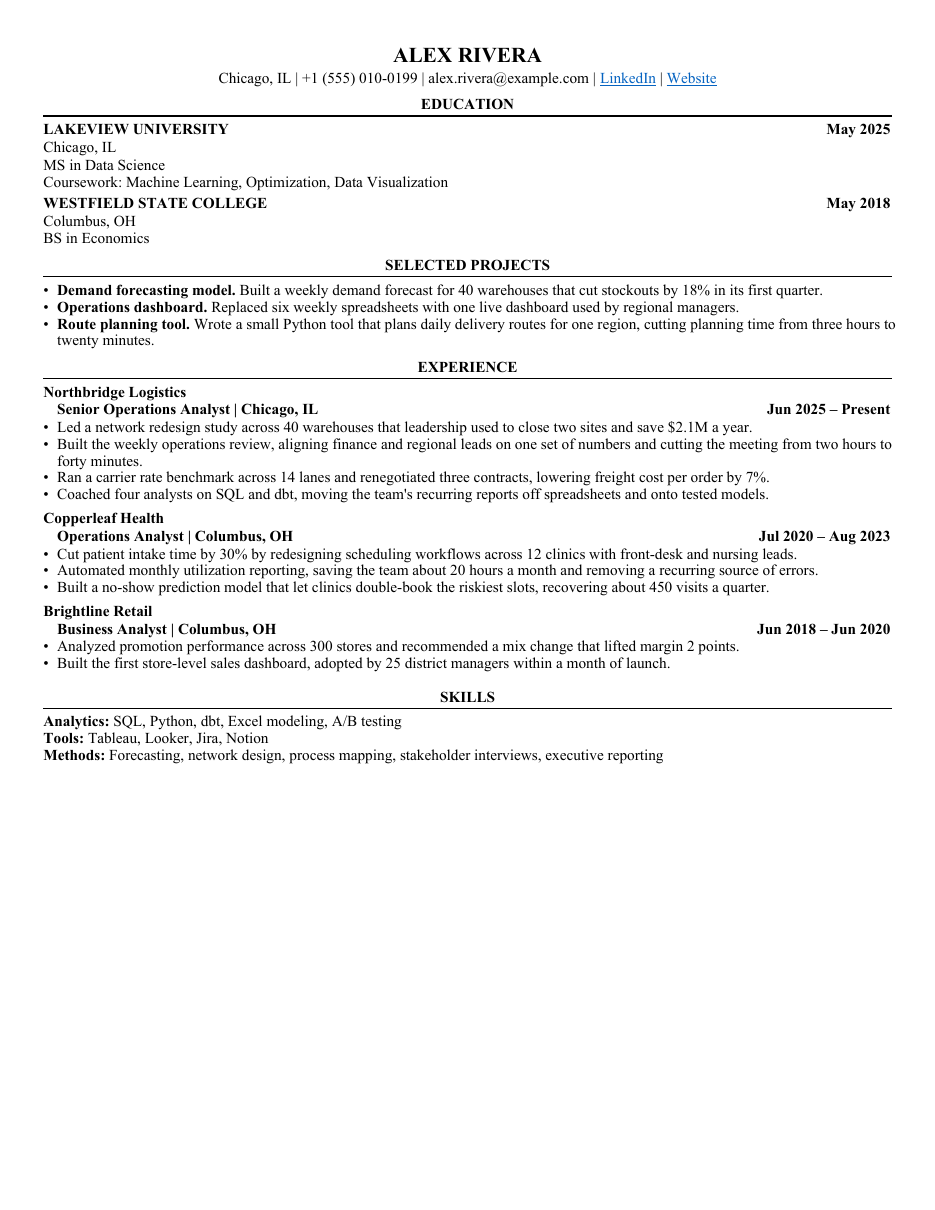
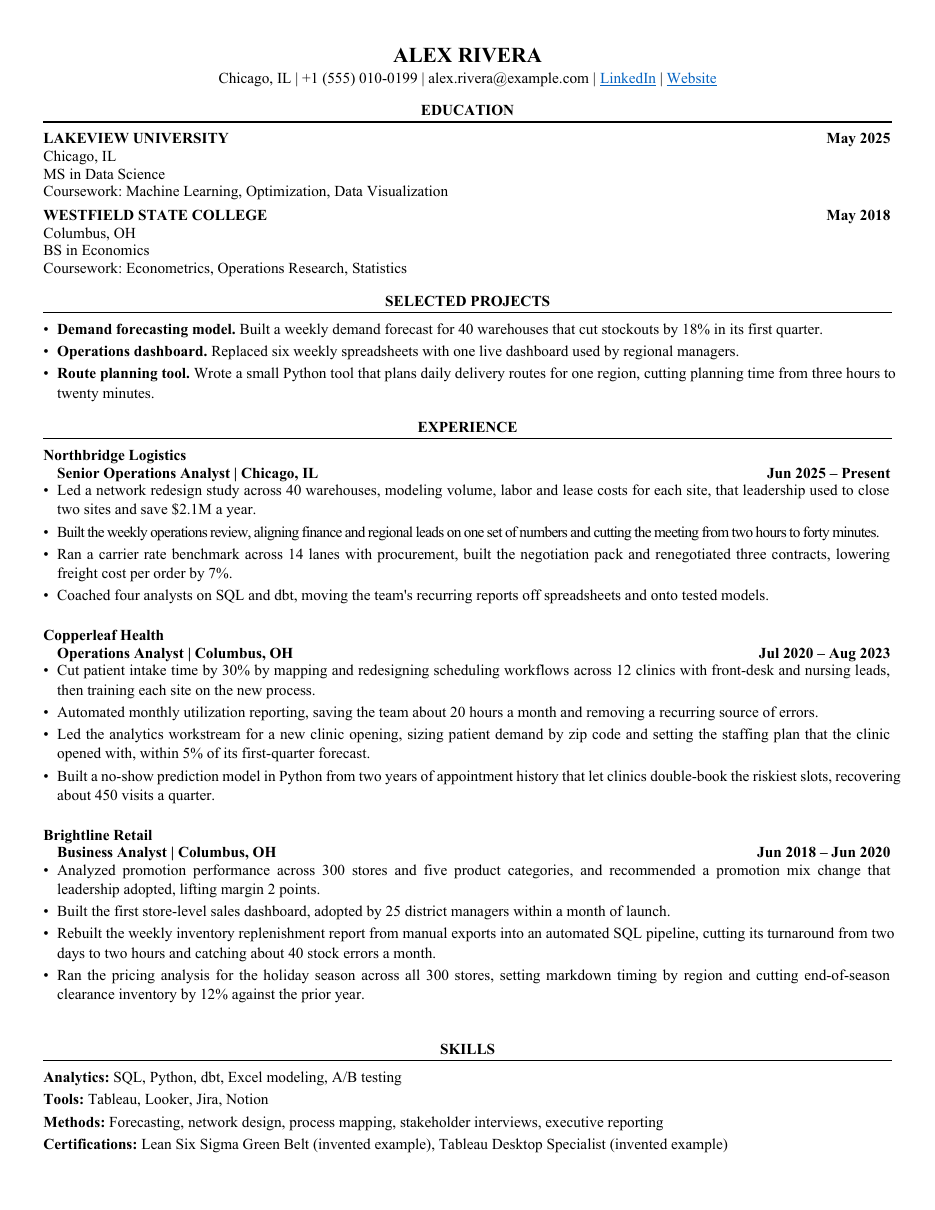
Fixes from a fresh-install test
- Quick start uses a venv (Homebrew and Linux Pythons refuse a system-wide pip install).
- Headless Claude calls load no user settings or CLAUDE.md (--setting-sources "").
- The demo never calls Claude; DEV_PORT documented; SIGTERM cleans up.
- Example base resumes fit the page (97%); the fill rule is documented as the engine applies it.
- Onboarding: guidance for filling a page with a short career; step references fixed.
- Two test races fixed (response built before the email worker starts; background work settled
  before the second draft). Manual capture refused while outreach is off. Privacy hook executable.

diff --git a/server/app.py b/server/app.py
@@ -675,7 +675,7 @@ def claude_status():
         return "missing"
     try:
         r = subprocess.run([b, "-p", "Reply with the single word OK.", "--output-format", "json",
-                            "--max-turns", "1", "--model", "haiku", "--tools", "",
+                            "--max-turns", "1", "--model", "haiku", "--tools", "", "--setting-sources", "",
                             "--strict-mcp-config", "--mcp-config", '{"mcpServers":{}}'],
                            capture_output=True, text=True, timeout=60, cwd=ROOT, stdin=subprocess.DEVNULL)
         if not r.stdout.strip():
@@ -849,8 +849,9 @@ def _run_claude_once(prompt, schema, resume, model, timeout, tools, permission_m
         cmd += ["--effort", effort]      # "low" for mechanical follow-ups: shorten these three items
     if system_prompt is not None:
         cmd += ["--system-prompt", system_prompt]      # replaces the CLI's default system prompt
-    if setting_sources is not None:
-        cmd += ["--setting-sources", setting_sources]  # "" loads no settings files at all
+    # "" loads no settings files and no CLAUDE.md: the prompts carry everything they need, and the user's own global
+    # instructions (written for their interactive sessions) must not leak into a resume or an email.
+    cmd += ["--setting-sources", "" if setting_sources is None else setting_sources]
     t0 = time.time()
     r = subprocess.run(cmd, capture_output=True, text=True, timeout=timeout, cwd=ROOT, input=prompt)
     if r.returncode != 0 and not r.stdout.strip():
@@ -4531,6 +4532,9 @@ def api_people_manual():
     tracked, where."""
     if not from_owner():
         return forbidden()
+    off = feature_off("outreach", "Outreach")
+    if off:
+        return off
     body = request.get_json(force=True) or {}
     name = outreach.clean_name((body.get("name") or "").strip())
     slug = profile_slug(body.get("linkedin_url"))
@@ -4779,9 +4783,10 @@ def api_person_find_email(pid):
         return jsonify({"error": NO_APIFY, "needs": "apify_token"}), 400
     _person_error.pop(pid, None)
     _person_busy[pid] = {"what": "email", "since": now()}
+    out = _person_out(pid)          # before the worker starts: a fast worker could clear the busy mark first
     threading.Thread(target=person_email_worker, args=(pid, p_["job_id"]), daemon=True).start()
     log_action(cur["job"] and load_job(cur["job"]["id"]), "person_find_email", detail={"person": pid})
-    return jsonify(_person_out(pid)), 202
+    return jsonify(out), 202
 
 
 REVISE_BELOW = 70              # a draft the audit scores under this gets one revision from the audit's notes

diff --git a/server/demo.py b/server/demo.py
@@ -6,6 +6,7 @@ stages, a rendered resume and sample outreach, then starts the dev server on it.
 Apify or a mail server, and nothing is written outside a temp folder.
 
 Run:   python3 server/demo.py           then open http://127.0.0.1:8791/  (side panel preview: /_panel)
+       DEV_PORT=8800 python3 server/demo.py   to use another port
 Stop:  Ctrl+C. The temp folder is deleted on exit.
 """
 import importlib.util
@@ -108,6 +109,8 @@ def main():
             con.execute("UPDATE jobs SET captured_at=? WHERE id=?", (fields["captured_at"], job["id"]))
     print(f"demo: {len(JOBS)} invented jobs for {app.userprofile.name()}")
     env = dict(os.environ, DEV_SRC_DB=app.DB, JDI_DEMO="1")
+    import signal
+    signal.signal(signal.SIGTERM, lambda *a: sys.exit(0))      # a plain kill still cleans up the temp folder
     try:
         subprocess.run([sys.executable, os.path.join(HERE, "devserver.py")], env=env, check=False)
     finally:

diff --git a/server/test_outreach_flow.py b/server/test_outreach_flow.py
@@ -973,6 +973,11 @@ post(f"/api/messages/{got['messages'][0]['id']}/skip", {"reason": "Too formal fo
 _rej = [json.loads(x) for x in open(app.LEARNING_INBOX) if '"draft_rejected"' in x]
 check("Skip writes a draft_rejected event with the reason given", any(
     x["context"].get("message") == got["messages"][0]["id"] and x["context"].get("reason") == "Too formal for a recruiter" for x in _rej), str(_rej)[-300:])
+# Let background work started by earlier steps (link backfills, earlier workers finishing up) settle first, so this
+# step sees the stored address and the job as they will be, not mid-write.
+for _t in __import__("threading").enumerate():
+    if _t is not __import__("threading").main_thread() and _t.daemon:
+        _t.join(timeout=15)
 st, r = post(f"/api/people/{pp['id']}/draft")
 check("Draft: again once the first was skipped", st == 202, str(r))
 wait_person(pp["id"])

diff --git a/server/devserver.py b/server/devserver.py
@@ -51,7 +51,10 @@ _real_claude = app.run_claude
 
 
 def _no_model_for_handoff(prompt, schema=None, **kw):
-    """The dev copy asks the model nothing for a handoff note: its summary falls back to the code-written one."""
+    """The dev copy asks the model nothing for a handoff note: its summary falls back to the code-written one. The demo
+    (JDI_DEMO, from demo.py) asks the model nothing at all, so clicking around it never spends Claude usage."""
+    if os.environ.get("JDI_DEMO"):
+        return {"error": "This is the demo: it never calls Claude. Run /onboard to set up your own profile."}
     if schema is app.hf.SUMMARY_SCHEMA or schema is app.PERSON_SCHEMA:     # a profile read falls back to the page's own reading here
         return {"error": "dev server: no model"}
     return _real_claude(prompt, schema=schema, **kw)

diff --git a/.claude/skills/onboard/SKILL.md b/.claude/skills/onboard/SKILL.md
@@ -17,7 +17,7 @@ and the skills need, at least one base resume renders to one full page, and the 
 to load the extension and start the server.
 
 Talk to the user as "you". Keep every message short. Ask in small batches (three to six
-questions), never a wall of questions. Say where you are in the process ("Step 3 of 8").
+questions), never a wall of questions. Say where you are in the process ("Step 3 of 9").
 
 ## Ground rules
 
@@ -25,7 +25,7 @@ questions), never a wall of questions. Say where you are in the process ("Step 3
   their answers in this conversation. A number, title, date, tool or achievement they have not
   confirmed stays off. When a document and an answer disagree, ask.
 - **Never ask for a secret in chat.** Passwords, API keys and tokens go into `.env` through the
-  hidden-input command in Step 7. If the user pastes one into chat anyway, do not repeat it, write
+  hidden-input command in Step 6. If the user pastes one into chat anyway, do not repeat it, write
   it to `.env` yourself only if they ask, and suggest they rotate it.
 - **Write in the exact format of `examples/profile/`.** Open the matching example file before
   writing each profile file, and keep every key, its nesting and its type. The loader is
@@ -51,7 +51,7 @@ Run these checks and report one line each, with the fix for anything missing:
 | Check | Command | Fix |
 |---|---|---|
 | Python 3.10 or newer | `python3 --version` | macOS: `brew install python`; Linux: the distribution's `python3` package |
-| Python packages | `python3 -c "import flask, yaml, docx, pypdf"` | `python3 -m pip install -r requirements.txt` |
+| Python packages | `python3 -c "import flask, yaml, docx, pypdf"` | `python3 -m venv .venv && source .venv/bin/activate && pip install -r requirements.txt` |
 | LibreOffice (renders resumes to PDF) | `soffice --version` | macOS: `brew install --cask libreoffice`; Debian or Ubuntu: `sudo apt install libreoffice-writer` |
 | Poppler (measures and rasterizes PDFs) | `pdfinfo -v` and `pdftoppm -v` | macOS: `brew install poppler`; Debian or Ubuntu: `sudo apt install poppler-utils` |
 | Google Chrome (for the extension) | ask the user | https://www.google.com/chrome/ |
@@ -176,9 +176,13 @@ python3 engine/engine.py fit data/onboard/<key>.json data/onboard/<file_stem>_<k
 pdftoppm -jpeg -r 100 data/onboard/<file_stem>_<key>.pdf data/onboard/<key>-page
 ```
 
-`fit` prints a JSON result. `verdict` must be `fit`: one page, 92 to 98 percent full, no orphan
-lines. If it is `over`, cut or shorten the weakest bullets; `under`, add a real bullet from
-`profile.md` to a role with fewer than three; `orphans`, lengthen or shorten the named bullets by
+`fit` prints a JSON result. `verdict` must be `fit`: one page with at most 0.4 inch left empty at the bottom (roughly 96 percent full or more), no orphan
+lines. If it is `over`, cut or shorten the weakest bullets; `under`, add real content from
+`profile.md`, in this order until it fits: a bullet for a role with fewer than three; more confirmed detail
+in the strongest bullets so they run to two full lines (ask the user for the scope, the tools, who used the
+result, the number); a projects section (`builds`) with one to three items; a certifications or methods
+line in skills; relevant coursework under education. Short careers often need two-line bullets to fill a
+page; never pad with claims the user has not confirmed, and never stretch spacing to fake fullness; `orphans`, lengthen or shorten the named bullets by
 the character counts in `measure.bullets`. Edit `base_versions.yaml`, re-run, and repeat until
 it fits. Then look at the JPEG yourself and check dates are right-aligned, bold labels render,
 and nothing reads wrong. Show the user the image path and ask them to open the PDF.

diff --git a/README.md b/README.md
@@ -16,9 +16,10 @@ Nothing is ever submitted or sent without your click.
 ## What it looks like
 
 Every screenshot shows the invented example person (Alex Rivera) and invented companies. You can open
-the same demo yourself before setting anything up: `python3 server/demo.py`, then visit
-http://127.0.0.1:8791/ (and http://127.0.0.1:8791/_panel for the side panel). It calls no model and no
-paid service.
+the same demo yourself before setting anything up: `python3 server/demo.py` (after the install step in
+Quick start), then visit http://127.0.0.1:8791/ (and http://127.0.0.1:8791/_panel for the side panel). It
+never calls Claude or any paid service; buttons that would need the model say so. Use
+`DEV_PORT=8800 python3 server/demo.py` for another port. Stop it with Ctrl+C.
 
 **The dashboard.** Every job, grouped by where it stands, with its fit score, stage and outreach progress.
 
@@ -66,7 +67,7 @@ would this employer shortlist you today?
 **Ask, then build once.** Anything the resume would need that your profile does not settle
 (a tool the posting names, whether you have managed people) becomes a one-tap question. Then a
 tailored resume is built: Claude writes the words, and the engine renders the document, measures
-every line, and adjusts spacing until it is exactly one page and 92 to 98 percent full, with no
+every line, and adjusts spacing until it is exactly one page with no more than 0.4 inch left empty at the bottom (roughly 96 percent full), with no
 one-word last lines. It checks for em dashes, banned phrases, role order, repeated bullets and
 every number against your profile. A cover letter can be built from your own building blocks,
 250 to 350 words, one page.
@@ -143,10 +144,12 @@ after a few jobs you will know your real numbers. To spend less, set cheaper mod
 You need Python 3.10 or newer, LibreOffice, Poppler, Google Chrome and Claude Code.
 
 ```bash
-git clone <this repository> jd-intake
+git clone https://github.com/auto-mo/jd-intake.git
 cd jd-intake
-python3 -m pip install -r requirements.txt
-claude                      # then type /onboard
+python3 -m venv .venv          # a private Python for this project
+source .venv/bin/activate      # run this in every new terminal before the server
+pip install -r requirements.txt
+claude                         # then type /onboard
 ```
 
 `/onboard` checks the prerequisites and says how to install anything missing, reads your
@@ -158,7 +161,8 @@ and run it again; it carries on where it left off.
 Then:
 
 ```bash
-python3 server/app.py       # serves http://127.0.0.1:8790
+source .venv/bin/activate      # if this terminal does not have it yet
+python3 server/app.py          # serves http://127.0.0.1:8790
 ```
 
 In Chrome, open `chrome://extensions`, turn on Developer mode, click **Load unpacked** and pick

diff --git a/.claude/skills/resume-build/SKILL.md b/.claude/skills/resume-build/SKILL.md
@@ -69,7 +69,7 @@ has been raised once; do not re-litigate it.
 ## Non-negotiables
 
 1. **Exactly one page.** Never two. Never overflowing.
-2. **The page must be visually full.** 92 to 98 percent vertical fill. Underfill looks worse
+2. **The page must be visually full.** No more than 0.4 inch of empty space at the bottom (the engine's `trailing_in`), which is roughly 96 percent fill or more. Underfill looks worse
    than dense text and reads as thin experience.
 3. **Strict reverse chronological order**, the order in `experience_order`. Never reorder
    without explicit approval asked for in Phase 0.
@@ -241,7 +241,7 @@ python3 engine/engine.py fit content.json <application folder>/<file_stem>_<Comp
 ```
 
 `fit` renders, converts, measures every line and moves only layout spacing until the page is
-one page and 92 to 98 percent full; when spacing runs out it names the bullets that need
+one page with at most 0.4 inch left at the bottom; when spacing runs out it names the bullets that need
 characters added or cut. It also exits 2 on a repeated bullet or heading. Then:
 
 ```bash
@@ -258,7 +258,7 @@ from `experience_order`, and compare against that order.
 **Look at `page-1.jpg`** and check:
 - Exactly one page.
 - **VERTICAL FILL. This is a blocking gate, not an observation.** At 100 dpi a US Letter page is
-  about 1100 pixels tall. Content must reach roughly 1000 to 1080 pixels (92 to 98 percent).
+  about 1100 pixels tall. Content must reach roughly 1055 pixels or lower (about 0.4 inch or less of empty page).
   If it stops materially short, **do not deliver.** Add a bullet to a role carrying fewer than
   three, restore a dropped one, or expand the role that best answers the JD, then rebuild.
   Noting the gap in the delivery message is not a fix, and asking whether to pad it is not a

diff --git a/examples/profile/profile.md b/examples/profile/profile.md
@@ -32,6 +32,14 @@ Onboarding writes yours to profile/profile.md. Numbers here are the only numbers
 ## Skills and tools (confirmed)
 - SQL, Python, dbt, Excel modeling, A/B testing; Tableau, Looker, Jira, Notion.
 - Methods: forecasting, network design, process mapping, stakeholder interviews, executive reporting.
+- Certifications: Lean Six Sigma Green Belt; Tableau Desktop Specialist (both part of the invented example).
+- Network study detail: modeled volume, labor and lease costs per site. Carrier benchmark: built the negotiation pack with procurement.
+- Clinic scheduling: mapped and redesigned workflows, then trained each site. No-show model: Python, two years of appointment history.
+- Promotion analysis: five product categories; leadership adopted the recommended mix change.
+- BS coursework: Econometrics, Operations Research, Statistics.
+- Brightline: rebuilt the weekly replenishment report as an automated SQL pipeline; two days to two hours; about 40 stock errors caught a month.
+- Copperleaf: led analytics for a new clinic opening; demand by zip code; staffing plan landed within 5% of the first-quarter forecast.
+- Brightline: ran holiday pricing analysis across 300 stores; markdown timing by region; end-of-season clearance inventory down 12% year over year.
 
 ## Settled questions
 - Has not managed direct reports. Has led cross-functional projects of up to eight people.

diff --git a/docs/sponsorship.md b/docs/sponsorship.md
@@ -27,8 +27,9 @@ automatic skip unless the posting is absolute.
    one-line `summary` (it is what the application answers use).
 2. Get the data. The lookup reads an employer summary built from the DOL Office of Foreign
    Labor Certification performance data (https://www.dol.gov/agencies/eta/foreign-labor/performance).
-   `plugins/sponsorship/lca-schema.md` describes the file it expects, its columns, and where to
-   put it. The first lookup converts it into a small SQLite cache next to the plug-in; later
+   The quickest way: `python3 plugins/sponsorship/download_lca.py` fetches the last two complete
+   fiscal years into `plugins/sponsorship/data/` (add years as arguments, e.g. `... 2024 2025`).
+   `plugins/sponsorship/lca-schema.md` describes the files, their columns, and where they go. The first lookup converts it into a small SQLite cache next to the plug-in; later
    lookups are instant. The data is public; download a fresh year when the DOL publishes one.
 3. Set `features: sponsorship: true` in `profile/profile.yaml` and restart the server.
 

diff --git a/docs/run-locally.md b/docs/run-locally.md
@@ -8,7 +8,7 @@ same machine, and Claude Code uses your Claude subscription.
 | Tool | Why | Install |
 |---|---|---|
 | Python 3.10 or newer | the server and the resume engine | macOS: `brew install python`; Linux: your distribution's `python3` |
-| The Python packages | Flask, PyYAML, python-docx, pypdf and a few more | `python3 -m pip install -r requirements.txt` |
+| The Python packages | Flask, PyYAML, python-docx, pypdf and a few more | `python3 -m venv .venv && source .venv/bin/activate && pip install -r requirements.txt` (a venv: Homebrew and Linux Pythons refuse a system-wide pip install) |
 | LibreOffice | turns the generated `.docx` into a PDF | macOS: `brew install --cask libreoffice`; Debian or Ubuntu: `sudo apt install libreoffice-writer` |
 | Poppler | measures and rasterizes the PDF (`pdfinfo`, `pdftotext`, `pdftoppm`) | macOS: `brew install poppler`; Debian or Ubuntu: `sudo apt install poppler-utils` |
 | Google Chrome | the capture extension | https://www.google.com/chrome/ |

diff --git a/docs/architecture.md b/docs/architecture.md
@@ -48,7 +48,7 @@ stage. It talks only to the server address set in its settings (default
 **`engine/`**: the resume and cover letter generator. No model inside.
 - `engine.py`: `render` (content to `.docx` through `template.docx`), `convert` (LibreOffice to
   PDF), `measure` (every line's width from the PDF), `fit` (moves only layout spacing until the
-  page is one page and 92 to 98 percent full), `check` (em dashes, banned phrases, role order,
+  page is one page with at most 0.4 inch left empty at the bottom, roughly 96 percent full), `check` (em dashes, banned phrases, role order,
   repeated content, every number traced to your profile, answers or base version).
 - `build.py`: the XML helpers. `base_render.py`: render a base version as is.
   `make_cover_letter.py`: the cover letter. `measure.py`, `deficit.py`: line-fill reports.
